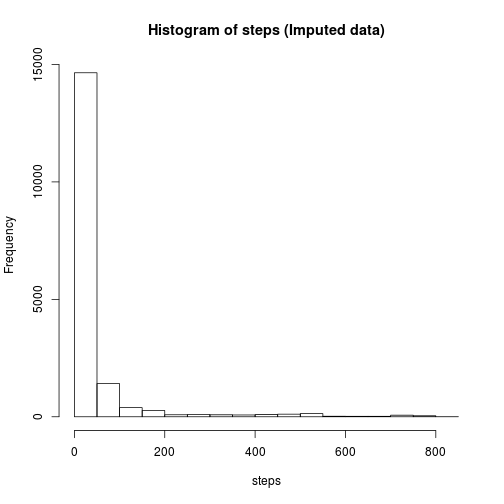
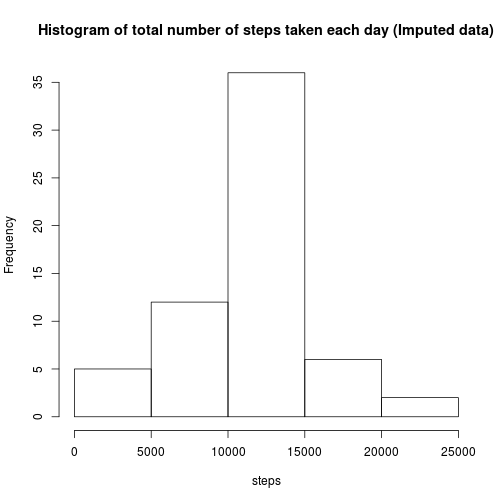
histogram, mean, median of total steps per day: raw and imputed data

diff --git a/PA1_template.html b/PA1_template.html
@@ -212,28 +212,32 @@ head(data, n = 5)
 <li>The histogram of the data can be plotted using the following piece of code</li>
 </ul>
 
-<pre><code class="r"># Plot histogram of steps wih raw data
-with(data, hist(steps, main = &quot;Histogram of steps (Raw data)&quot;))
+<pre><code class="r">library(data.table)
+dt &lt;- data.table(data)
+data_steps_per_day &lt;- dt[,list(steps=sum(steps, na.rm=TRUE)),by=date]
+# Plot histogram of steps wih raw data
+with(data_steps_per_day, 
+     hist(steps, main=&quot;Histogram of total number of steps taken each day (Raw data)&quot;))
 </code></pre>
 
[2 lines of base64/hex data omitted]
 
 <ul>
 <li>The mean and median of the total number of steps can be calculated as</li>
 </ul>
 
-<pre><code class="r"># Mean number of steps with raw dataset
-mean(data$steps, na.rm = TRUE)
+<pre><code class="r"># Mean number of steps taken each day with raw dataset
+mean(data_steps_per_day$steps, na.rm = TRUE)
 </code></pre>
 
-<pre><code>## [1] 37.38
+<pre><code>## [1] 9354
 </code></pre>
 
-<pre><code class="r"># Median number of steps with raw dataset
-median(data$steps, na.rm = TRUE)
+<pre><code class="r"># Median number of steps taken each day with raw dataset
+median(data_steps_per_day$steps, na.rm = TRUE)
 </code></pre>
 
-<pre><code>## [1] 0
+<pre><code>## [1] 10395
 </code></pre>
 
 <h2>What is the average daily activity pattern?</h2>
@@ -242,8 +246,7 @@ median(data$steps, na.rm = TRUE)
 <li>Time series plot of the 5-minute interval and the average number of steps taken, averaged across all days</li>
 </ul>
 
-<pre><code class="r">library(data.table)
-dt &lt;- data.table(data)
+<pre><code class="r">dt &lt;- data.table(data)
 mean_across_days &lt;- dt[, list(mean = mean(steps, na.rm = TRUE)), by = interval]
 # Average daily pattern plot
 with(mean_across_days, plot(interval, mean, type = &quot;l&quot;, main = &quot;Average daily pattern&quot;))
@@ -293,46 +296,32 @@ sum(is.na(imputed_data))
 <pre><code>## [1] 0
 </code></pre>
 
-<p>The histogram of the steps from the imputed data looks similar to the histogram plot with raw data</p>
+<p>The histogram of the steps from the imputed data looks more symmetric than the raw data because we have gotten rid of the <code>NA</code> values.</p>
 
-<pre><code class="r"># Histogram of steps with imputed data
-with(imputed_data, hist(steps, main = &quot;Histogram of steps (Imputed data)&quot;))
+<pre><code class="r">dt &lt;- data.table(imputed_data)
+imputed_data_steps_per_day &lt;- dt[,list(steps=sum(steps, na.rm=TRUE)),by=date]
+# Histogram of steps with imputed data
+with(imputed_data_steps_per_day,
+     hist(steps, main=&quot;Histogram of total number of steps taken each day (Imputed data)&quot;))
 </code></pre>
 
[2 lines of base64/hex data omitted]
 
-<pre><code class="r"># Mean number of steps with imputed dataset
-mean(imputed_data$steps)
+<pre><code class="r"># Mean number of steps taken each day with imputed dataset
+mean(imputed_data_steps_per_day$steps)
 </code></pre>
 
-<pre><code>## [1] 37.38
+<pre><code>## [1] 10766
 </code></pre>
 
-<pre><code class="r"># Median number of steps with imputed dataset
-median(imputed_data$steps)
+<pre><code class="r"># Median number of steps taken each day with imputed dataset
+median(imputed_data_steps_per_day$steps)
 </code></pre>
 
-<pre><code>## [1] 0
+<pre><code>## [1] 10766
 </code></pre>
 
-<p>As you can see, the mean and median of the raw and imputed data remains the same.
-Now let&#39;s look at the number of steps:</p>
-
-<pre><code class="r"># Total steps with raw data
-sum(data$steps, na.rm = TRUE)
-</code></pre>
-
-<pre><code>## [1] 570608
-</code></pre>
-
-<pre><code class="r"># Total steps with imputed data
-sum(imputed_data$steps)
-</code></pre>
-
-<pre><code>## [1] 656738
-</code></pre>
-
-<p>As expected, the number of steps for the imputed data is more than the raw data.</p>
+<p>As you can see, the mean and median of the imputed data is more than the raw data because we have replaced the missing data with the mean values.</p>
 
 <h2>Are there differences in activity patterns between weekdays and weekends?</h2>
 

diff --git a/PA1_template.md b/PA1_template.md
@@ -35,8 +35,12 @@ head(data, n = 5)
 
 
 ```r
+library(data.table)
+dt <- data.table(data)
+data_steps_per_day <- dt[,list(steps=sum(steps, na.rm=TRUE)),by=date]
 # Plot histogram of steps wih raw data
-with(data, hist(steps, main = "Histogram of steps (Raw data)"))
+with(data_steps_per_day, 
+     hist(steps, main="Histogram of total number of steps taken each day (Raw data)"))
 ```
 
 ![plot of chunk histogram_steps_raw_data](figure/histogram_steps_raw_data.png) 
@@ -46,21 +50,21 @@ with(data, hist(steps, main = "Histogram of steps (Raw data)"))
 
 
 ```r
-# Mean number of steps with raw dataset
-mean(data$steps, na.rm = TRUE)
+# Mean number of steps taken each day with raw dataset
+mean(data_steps_per_day$steps, na.rm = TRUE)
 ```
 
 ```
-## [1] 37.38
+## [1] 9354
 ```
 
 ```r
-# Median number of steps with raw dataset
-median(data$steps, na.rm = TRUE)
+# Median number of steps taken each day with raw dataset
+median(data_steps_per_day$steps, na.rm = TRUE)
 ```
 
 ```
-## [1] 0
+## [1] 10395
 ```
 
 
@@ -70,7 +74,6 @@ median(data$steps, na.rm = TRUE)
 
 
 ```r
-library(data.table)
 dt <- data.table(data)
 mean_across_days <- dt[, list(mean = mean(steps, na.rm = TRUE)), by = interval]
 # Average daily pattern plot
@@ -129,59 +132,39 @@ sum(is.na(imputed_data))
 ```
 
 
-The histogram of the steps from the imputed data looks similar to the histogram plot with raw data
+The histogram of the steps from the imputed data looks more symmetric than the raw data because we have gotten rid of the `NA` values.
 
 
 ```r
+dt <- data.table(imputed_data)
+imputed_data_steps_per_day <- dt[,list(steps=sum(steps, na.rm=TRUE)),by=date]
 # Histogram of steps with imputed data
-with(imputed_data, hist(steps, main = "Histogram of steps (Imputed data)"))
+with(imputed_data_steps_per_day,
+     hist(steps, main="Histogram of total number of steps taken each day (Imputed data)"))
 ```
 
 ![plot of chunk histogram_steps_imputed_data](figure/histogram_steps_imputed_data.png) 
 
 ```r
-# Mean number of steps with imputed dataset
-mean(imputed_data$steps)
+# Mean number of steps taken each day with imputed dataset
+mean(imputed_data_steps_per_day$steps)
 ```
 
 ```
-## [1] 37.38
-```
-
-```r
-# Median number of steps with imputed dataset
-median(imputed_data$steps)
-```
-
-```
-## [1] 0
-```
-
-
-As you can see, the mean and median of the raw and imputed data remains the same.
-Now let's look at the number of steps:
-
-
-```r
-# Total steps with raw data
-sum(data$steps, na.rm = TRUE)
-```
-
-```
-## [1] 570608
+## [1] 10766
 ```
 
 ```r
-# Total steps with imputed data
-sum(imputed_data$steps)
+# Median number of steps taken each day with imputed dataset
+median(imputed_data_steps_per_day$steps)
 ```
 
 ```
-## [1] 656738
+## [1] 10766
 ```
 
 
-As expected, the number of steps for the imputed data is more than the raw data.
+As you can see, the mean and median of the imputed data is more than the raw data because we have replaced the missing data with the mean values.
 
 ## Are there differences in activity patterns between weekdays and weekends?
 
